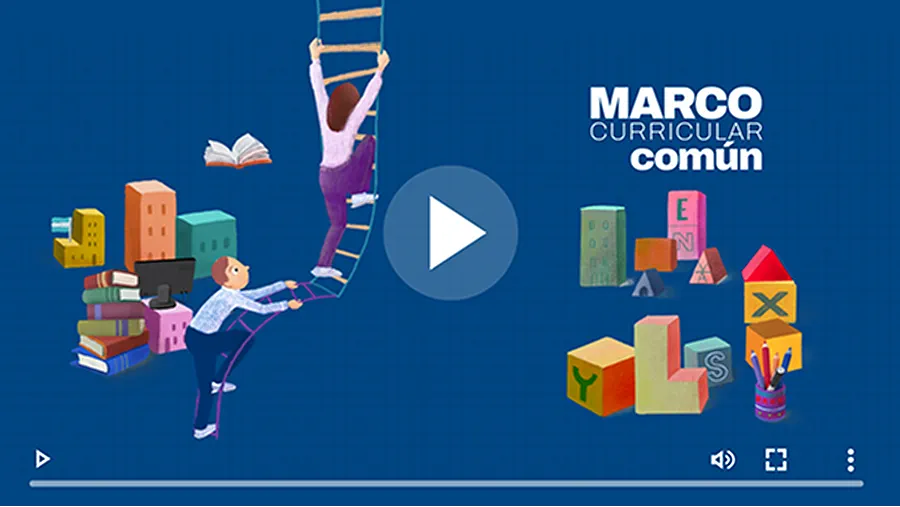
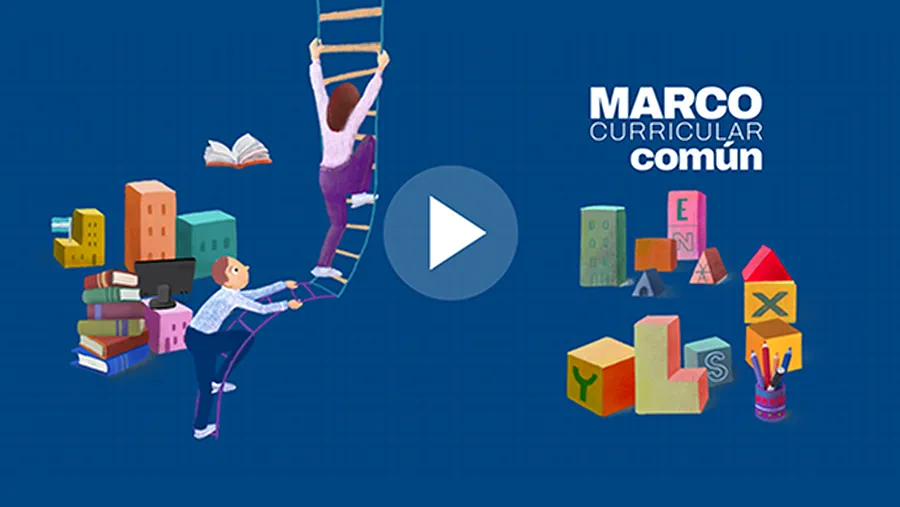
[+] Link Canonical

Changed region(s): [[0.0311, 0.858, 0.9644, 0.9763], [0.0311, 0.8876, 0.0622, 0.9172]]

diff --git a/progresiones_aprendizaje.html b/progresiones_aprendizaje.html
@@ -21,6 +21,7 @@
     <link rel="preconnect" href="https://fonts.gstatic.com" crossorigin>
     <link href="https://fonts.googleapis.com/css2?family=Fira+Sans:ital,wght@0,100;0,200;0,300;0,400;0,500;0,600;0,700;0,800;0,900;1,100;1,200;1,300;1,400;1,500;1,600;1,700;1,800;1,900&family=Merienda:wght@300..900&display=swap" rel="stylesheet">
     <link rel="stylesheet" href="./style/style.css">
+    <link rel="canonical" href="https://curriculumcordoba.ar/progresiones_aprendizaje.html" />
     <title>Progresiones de aprendizaje - Currículum Córdoba</title>
 
     
@@ -56,7 +57,7 @@
     <header class="hidden"></header>
     <main class="container-fluid">
       <section class="actionVolver">
-        <button class="button button--volver" onclick="window.location.href='index.html';">
+        <button class="button button--volver" onclick="window.location.href='/';">
           <img src="./assets/arrowBack.svg" alt="Volver icon">
           Volver
         </button>
@@ -66,11 +67,11 @@
           <h1>Progresiones de aprendizaje<br><small>Metas · Aprendizajes · Indicadores</small></h1>
         </div>
         <div class="col-12 col-md-6 col-lg-7 mainContent__resume">
-          <picture id="videoFrame">
+          <!-- <picture id="videoFrame" class="hidden">
             <source srcset='./assets/frameVideo_progresiones.webp' type='image/webp'>
             <img src='./assets/frameVideo_progresiones.jpg' type='image/jpg' alt='Flowers'>
-          </picture>
-          <video class="hidden" controls width="100%">
+          </picture> -->
+          <video controls width="100%" poster="./assets/frameVideo_progresiones.webp">
             <source src="./assets/PROGRESIONES_2025_v1.0.webm" type="video/webm" />
             <source src="./assets/PROGRESIONES_2025_v1.0.mp4" type="video/mp4" />
           </video>

diff --git a/quienes_somos.html b/quienes_somos.html
@@ -21,6 +21,7 @@
     <link rel="preconnect" href="https://fonts.gstatic.com" crossorigin>
     <link href="https://fonts.googleapis.com/css2?family=Fira+Sans:ital,wght@0,100;0,200;0,300;0,400;0,500;0,600;0,700;0,800;0,900;1,100;1,200;1,300;1,400;1,500;1,600;1,700;1,800;1,900&family=Merienda:wght@300..900&display=swap" rel="stylesheet">
     <link rel="stylesheet" href="./style/style.css">
+    <link rel="canonical" href="https://curriculumcordoba.ar/quienes_somos.html" />
     <title>Quienes somos - Currículum Córdoba</title>
 
     
@@ -56,7 +57,7 @@
     <header class="hidden"></header>
     <main class="container-fluid">
       <section class="actionVolver">
-        <button class="button button--volver" onclick="window.location.href='index.html';">
+        <button class="button button--volver" onclick="window.location.href='/';">
           <img src="./assets/arrowBack.svg" alt="Volver icon">
           Volver
         </button>
@@ -66,11 +67,11 @@
           <h1>Acerca de Currículum Córdoba</h1>
         </div>
         <div class="col-12 col-md-6 mainContent__video">
-          <picture id="videoFrame">
+          <!-- <picture id="videoFrame" class="hidden">
             <source srcset='./assets/frameVideo_quienes-somos.webp' type='image/webp'>
             <img src='./assets/frameVideo_quienes-somos.jpg' type='image/jpg' alt='Flowers'>
-          </picture>
-          <video class="hidden" controls width="100%">
+          </picture> -->
+          <video controls width="100%" poster="./assets/frameVideo_quienes-somos.webp">
             <source src="./assets/QUIENES_SOMOS_v1.0.webm" type="video/webm" />
             <source src="./assets/QUIENES_SOMOS_v1.0.mp4" type="video/mp4" />
           </video>

diff --git a/marco_curricular.html b/marco_curricular.html
@@ -23,6 +23,7 @@
     href="https://fonts.googleapis.com/css2?family=Fira+Sans:ital,wght@0,100;0,200;0,300;0,400;0,500;0,600;0,700;0,800;0,900;1,100;1,200;1,300;1,400;1,500;1,600;1,700;1,800;1,900&family=Merienda:wght@300..900&display=swap"
     rel="stylesheet">
   <link rel="stylesheet" href="./style/style.css">
+  <link rel="canonical" href="https://curriculumcordoba.ar/marco_curricular.html" />
   <title>Marco Curricular Común - Currículum Córdoba</title>
 
 
@@ -72,7 +73,7 @@
   </div>
   <main class="container-fluid MCC">
     <section class="actionVolver">
-      <button class="button button--volver" onclick="window.location.href='index.html';">
+      <button class="button button--volver" onclick="window.location.href='/';">
         <img src="./assets/arrowBack.svg" alt="Volver icon">
         Volver
       </button>
@@ -82,11 +83,11 @@
         <h1>Marco Curricular Común</h1>
       </div>
       <div class="col-12 col-md-6 col-lg-7 mainContent__resume">
-        <picture id="videoFrame">
+        <!-- <picture id="videoFrame" class="hidden">
           <source srcset='./assets/frameVideo_marcoCurricular.webp' type='image/webp'>
           <img src='./assets/frameVideo_marcoCurricular.jpg' type='image/jpg' alt='Flowers'>
-        </picture>
-        <video class="hidden" controls width="100%">
+        </picture> -->
+        <video controls width="100%" poster="./assets/frameVideo_marcoCurricular.webp">
           <source src="./assets/MMC_2025_v1.0.webm" type="video/webm" />
           <source src="./assets/MMC_2025_v1.0.mp4" type="video/mp4" />
         </video>

diff --git a/index.html b/index.html
@@ -21,6 +21,7 @@
     <link rel="preconnect" href="https://fonts.gstatic.com" crossorigin>
     <link href="https://fonts.googleapis.com/css2?family=Fira+Sans:ital,wght@0,100;0,200;0,300;0,400;0,500;0,600;0,700;0,800;0,900;1,100;1,200;1,300;1,400;1,500;1,600;1,700;1,800;1,900&family=Merienda:wght@300..900&display=swap" rel="stylesheet">
     <link rel="stylesheet" href="./style/style.css">
+    <link rel="canonical" href="https://curriculumcordoba.ar/" />
     <title>¡Bienvenidas y bienvenidos a Currículum Córdoba!</title>
 
     
@@ -33,7 +34,7 @@
 
     <!-- Site Name, Title, and Description to be displayed -->
     <meta property="og:site_name" content="Currículum Córdoba">
-    <meta property="og:title" content="¡Bienvenidas y bienvenidos a Currículum Córdoba!">
+    <meta property="og:title" content="Currículum Córdoba">
     <meta property="og:description" content="Un espacio para la socialización de los materiales curriculares que construimos de manera participativa como comunidad educativa cordobesa.">
 
     <!-- Image to display -->

diff --git a/metas_ciclo.html b/metas_ciclo.html
@@ -21,6 +21,7 @@
     <link rel="preconnect" href="https://fonts.gstatic.com" crossorigin>
     <link href="https://fonts.googleapis.com/css2?family=Fira+Sans:ital,wght@0,100;0,200;0,300;0,400;0,500;0,600;0,700;0,800;0,900;1,100;1,200;1,300;1,400;1,500;1,600;1,700;1,800;1,900&family=Merienda:wght@300..900&display=swap" rel="stylesheet">
     <link rel="stylesheet" href="./style/style.css">
+    <link rel="canonical" href="https://curriculumcordoba.ar/metas_ciclo.html" />
     <title>Metas por ciclo - Currículum Córdoba</title>
 
     
@@ -56,7 +57,7 @@
     <header class="hidden"></header>
     <main class="container-fluid">
       <section class="actionVolver">
-        <button class="button button--volver" onclick="window.location.href='index.html';">
+        <button class="button button--volver" onclick="window.location.href='/';">
           <img src="./assets/arrowBack.svg" alt="Volver icon">
           Volver
         </button>

diff --git a/contacto.html b/contacto.html
@@ -21,6 +21,7 @@
     <link rel="preconnect" href="https://fonts.gstatic.com" crossorigin>
     <link href="https://fonts.googleapis.com/css2?family=Fira+Sans:ital,wght@0,100;0,200;0,300;0,400;0,500;0,600;0,700;0,800;0,900;1,100;1,200;1,300;1,400;1,500;1,600;1,700;1,800;1,900&family=Merienda:wght@300..900&display=swap" rel="stylesheet">
     <link rel="stylesheet" href="./style/style.css">
+    <link rel="canonical" href="https://curriculumcordoba.ar/contacto.html" />
     <title>Contacto - Currículum Córdoba</title>
 
     
@@ -56,7 +57,7 @@
     <header class="hidden"></header>
     <main class="container-fluid">
       <section class="actionVolver">
-        <button class="button button--volver" onclick="window.location.href='index.html';">
+        <button class="button button--volver" onclick="window.location.href='/';">
           <img src="./assets/arrowBack.svg" alt="Volver icon">
           Volver
         </button>

diff --git a/js/header.js b/js/header.js
@@ -16,7 +16,7 @@ export const header = () => {
     <button class="button button--icon" onclick="closeMenu()"><img src="${closeSVG}" type='image/svg+xml'></button>
 </div>
 <div class="logoContainer">
-    <a href="index.html">
+    <a href="/">
         <picture>
             <source srcset='${logohSVG}' type='image/svg+xml'>
             <source srcset='${logohWEBP}' type='image/webp'>

diff --git a/js/mobileHeader.js b/js/mobileHeader.js
@@ -15,7 +15,7 @@ export const mobileHeader = () => {
             </button>
           </div>
           <div class="col-auto logoContainer">
-            <a href="index.html">
+            <a href="/">
                 <picture>
                     <source srcset='${logohSVG}' type='image/svg+xml'>
                     <source srcset='${logohWEBP}' type='image/webp'>
